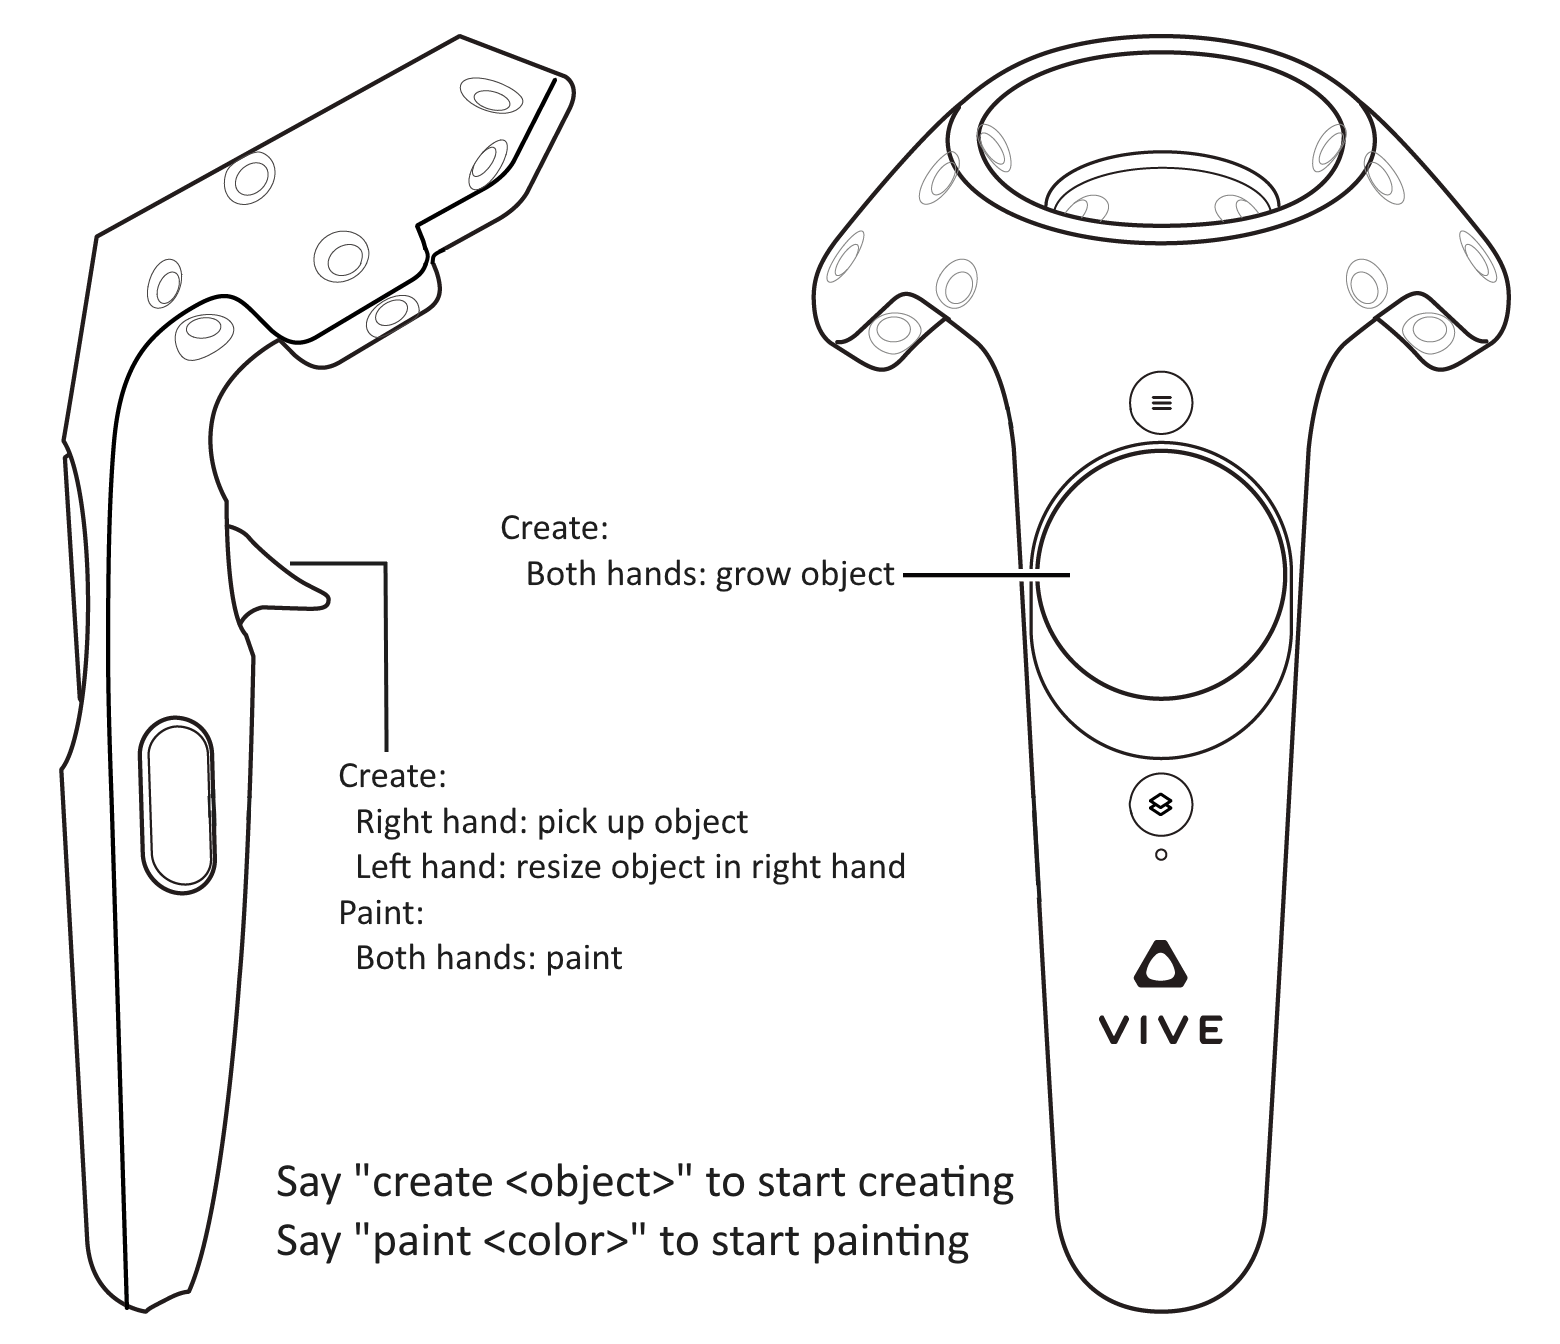
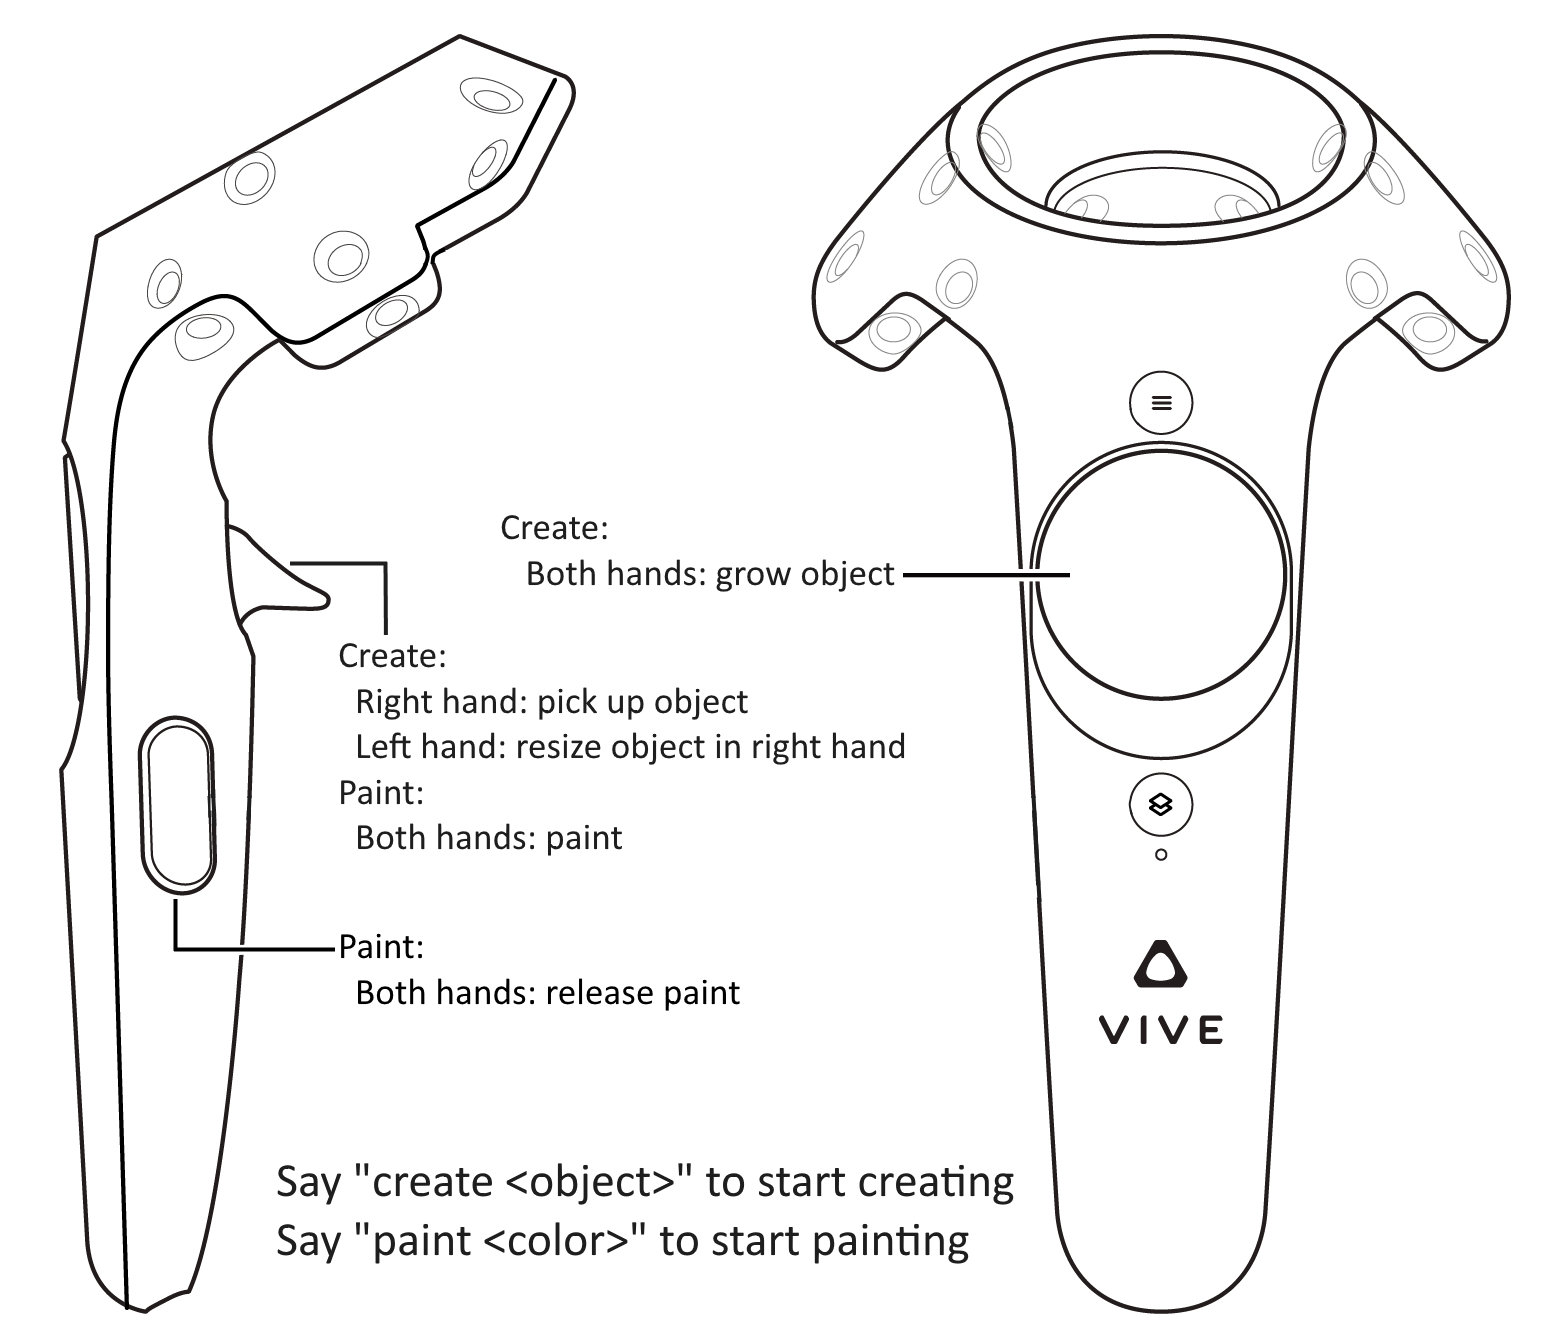
update help image, working on textures for created objects

Changed region(s): [[0.0923, 0.4688, 0.5846, 0.75]]

diff --git a/ui/view.cpp b/ui/view.cpp
@@ -42,6 +42,7 @@ std::unique_ptr<CylinderMesh> View::m_cylinder = nullptr;
 unsigned int View::m_fullscreenQuadVAO = 0;
 std::unordered_set<int> View::m_pressedKeys = std::unordered_set<int>();
 std::unordered_map<std::string, Texture2D> View::m_textureMap = std::unordered_map<std::string, Texture2D>();
+QMutex View::m_textureMutex;
 
 View::View(QWidget *parent) : QGLWidget(ViewFormat(), parent),
     m_fps(0.0f), m_createTimeLeft(0.0f), m_createTimeRight(0.0f),
@@ -191,7 +192,9 @@ void View::addImage(QString &s, QImage &img) {
     TextureParameters parameters = builder.build();
     parameters.applyTo(tex);
 
+    m_textureMutex.lock();
     m_textureMap.emplace(std::pair<std::string, Texture2D>(s.toStdString(), std::move(tex)));
+    m_textureMutex.unlock();
 }
 
 void View::initVR() {
@@ -547,6 +550,7 @@ void View::drawAction(glm::mat4& V, glm::mat4& P) {
         mat.cSpecular = glm::vec4(0.7, 0.7, 0.7, 1);
         mat.shininess = 20.0f;
         program->applyMaterial(mat);
+        m_textureMutex.lock();
 
         float st = 4.0f;
         float sr = 12.0f;
@@ -554,6 +558,9 @@ void View::drawAction(glm::mat4& V, glm::mat4& P) {
             float s = m_createTimeLeft < M_PI/st ? glm::sin(m_createTimeLeft*st) +  m_createTimeLeft*st : glm::sin(m_createTimeLeft*st - M_PI_2)/2.0f + 2.64f;
             glm::mat4 M = vrMatrixToQt(m_trackedHandPoses[Hand::LEFT].mDeviceToAbsoluteTracking) * glm::rotate(glm::radians(-90.0f), glm::vec3(1, 0, 0)) * glm::scale(glm::vec3(s/sr));
             program->setUniform("M", M);
+            int useTexture = m_textureMap.find(m_currentTextureString.toStdString()) != m_textureMap.end() ? 1 : 0;
+            program->setUniform("useTexture", useTexture);
+            if (useTexture) program->setTexture("tex", m_textureMap[m_currentTextureString.toStdString()]);
             m_cube->draw();
         }
 
@@ -561,8 +568,13 @@ void View::drawAction(glm::mat4& V, glm::mat4& P) {
             float s = m_createTimeRight < M_PI/st ? glm::sin(m_createTimeRight*st) +  m_createTimeRight*st : glm::sin(m_createTimeRight*st - M_PI_2)/2.0f + 2.64f;
             glm::mat4 M = vrMatrixToQt(m_trackedHandPoses[Hand::RIGHT].mDeviceToAbsoluteTracking) * glm::rotate(glm::radians(-90.0f), glm::vec3(1, 0, 0)) * glm::scale(glm::vec3(s/sr));
             program->setUniform("M", M);
+            int useTexture = m_textureMap.find(m_currentTextureString.toStdString()) != m_textureMap.end() ? 1 : 0;
+            program->setUniform("useTexture", useTexture);
+            if (useTexture) program->setTexture("tex", m_textureMap[m_currentTextureString.toStdString()]);
             m_cube->draw();
         }
+        m_textureMutex.unlock();
+        program->setUniform("useTexture", 0);
     } else {
         CS123SceneMaterial mat;
         mat.cAmbient.xyz = m_paintColor * 0.05f;
@@ -722,6 +734,8 @@ void View::updateActions() {
             mat.cDiffuse = glm::vec4(0.5, 0.5, 0.5, 1);
             mat.cSpecular = glm::vec4(0.7, 0.7, 0.7, 1);
             mat.shininess = 20.0f;
+            mat.textureMap.isUsed = !m_currentTextureString.isEmpty();
+            mat.textureMap.filename = m_currentTextureString.toStdString();
 
             glm::mat4 M = vrMatrixToQt(m_trackedHandPoses[Hand::LEFT].mDeviceToAbsoluteTracking);
             glm::vec3 pos = glm::vec3(M[3]);
@@ -749,6 +763,8 @@ void View::updateActions() {
             mat.cDiffuse = glm::vec4(0.5, 0.5, 0.5, 1);
             mat.cSpecular = glm::vec4(0.7, 0.7, 0.7, 1);
             mat.shininess = 20.0f;
+            mat.textureMap.isUsed = !m_currentTextureString.isEmpty();
+            mat.textureMap.filename = m_currentTextureString.toStdString();
 
             glm::mat4 M = vrMatrixToQt(m_trackedHandPoses[Hand::RIGHT].mDeviceToAbsoluteTracking);
             glm::vec3 pos = glm::vec3(M[3]);
@@ -859,6 +875,7 @@ void View::tick() {
             m_createTimeRight = 0.0f;
             m_prevLeftTouch = false;
             m_prevRightTouch = false;
+            m_currentTextureString = "";
         } else {
             m_paintLeft = glm::vec3(NAN);
             m_paintRight = glm::vec3(NAN);
@@ -916,6 +933,9 @@ void View::getImageFromLink(QNetworkReply *reply) {
 
     QImage img = QImage::fromData(reply->readAll());
     img.save("test.png");
+
+    m_currentTextureString = reply->url().toString();
+    addImage(reply->url().toString(), img);
 
     delete reply;
 }

diff --git a/ui/view.h b/ui/view.h
@@ -8,6 +8,7 @@
 #include <memory>
 #include <unordered_set>
 #include <unordered_map>
+#include <QMutex>
 
 #include "glm/glm.hpp"
 
@@ -94,6 +95,8 @@ public:
     static std::unordered_set<int> m_pressedKeys;
 
     static std::unordered_map<std::string, Texture2D> m_textureMap;
+    static QMutex m_textureMutex;
+    QString m_currentTextureString { "" };
 
 private:
     QTime m_time;
@@ -105,8 +108,8 @@ private:
 
     std::unique_ptr<PhysicsWorld> m_world;
 
-    Mode m_mode { PAINT };
-    Mode m_prevMode { PAINT };
+    Mode m_mode { CREATE };
+    Mode m_prevMode { CREATE };
     bool m_prevRightTouch { false };
     bool m_prevLeftTouch { false };
     glm::vec3 m_paintLeft { glm::vec3(NAN) };

diff --git a/game/PhysicsWorld.cpp b/game/PhysicsWorld.cpp
@@ -64,6 +64,7 @@ void PhysicsWorld::update(float dt) {
 
 void PhysicsWorld::drawGeometry() {
     glm::mat4 m;
+    View::m_textureMutex.lock();
     for (auto& e : m_entities) {
         if (e.m_draw) {
             e.getModelMatrix(m);
@@ -76,6 +77,7 @@ void PhysicsWorld::drawGeometry() {
             e.draw();
         }
     }
+    View::m_textureMutex.unlock();
     m_program->setUniform("useTexture", 0);
 
     CS123SceneMaterial mat;
